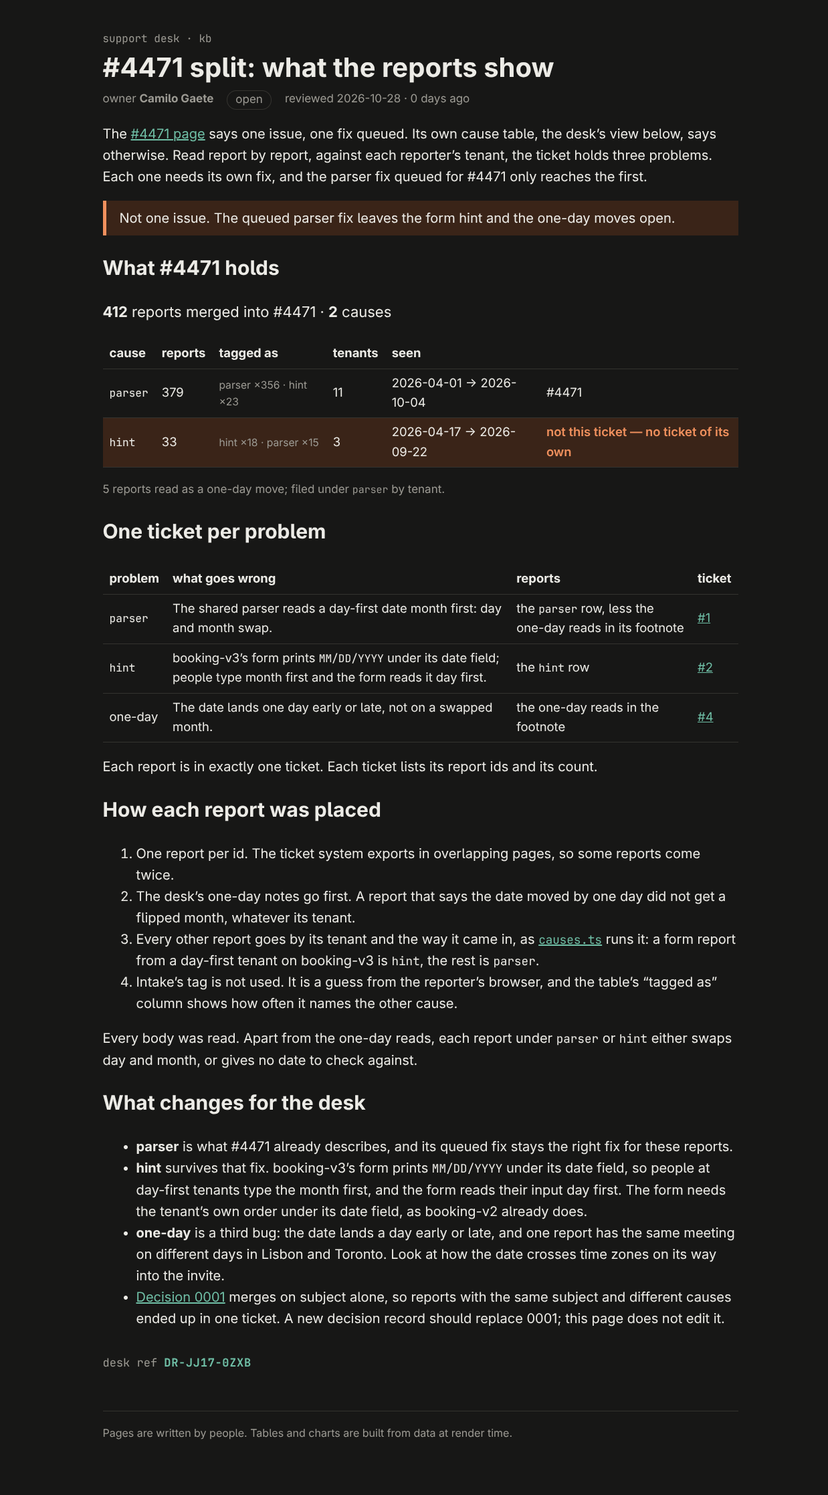
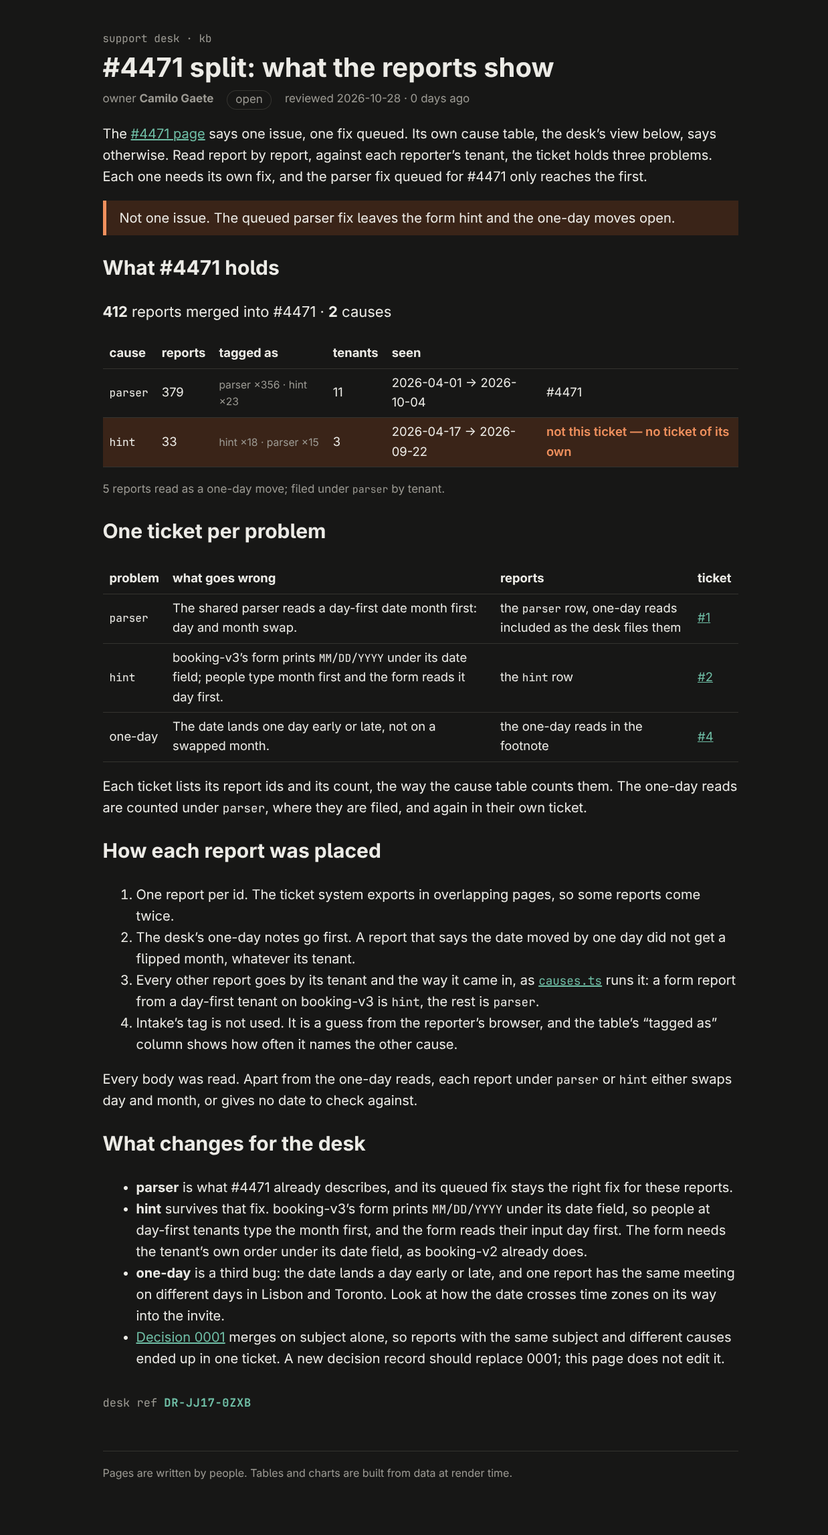
Count the parser ticket as the desk's cause table does
The one-day reads stay counted under parser, where they are filed, and
also have their own ticket.

diff --git a/rendered/kb/incidents/4471-split/index.html b/rendered/kb/incidents/4471-split/index.html
@@ -9,11 +9,11 @@
 		<link href="../../../_app/immutable/chunks/B2Ul7l_u.js" rel="modulepreload">
 		<link href="../../../_app/immutable/chunks/BCPXOG7W.js" rel="modulepreload">
 		<link href="../../../_app/immutable/chunks/Dh1V97Jm.js" rel="modulepreload">
-		<link href="../../../_app/immutable/entry/app.-UMv9_4d.js" rel="modulepreload">
+		<link href="../../../_app/immutable/entry/app.O2QAQYfS.js" rel="modulepreload">
 		<link href="../../../_app/immutable/nodes/0.BurGglGN.js" rel="modulepreload">
 		<link href="../../../_app/immutable/chunks/DK3Fl9T5.js" rel="modulepreload">
-		<link href="../../../_app/immutable/nodes/5.gIbLY4YY.js" rel="modulepreload">
-		<link href="../../../_app/immutable/chunks/Z0EprLl_.js" rel="modulepreload">
+		<link href="../../../_app/immutable/nodes/5.Iw05Quhu.js" rel="modulepreload">
+		<link href="../../../_app/immutable/chunks/D5iGddRQ.js" rel="modulepreload">
 		<link href="../../../_app/immutable/chunks/BTPwLomz.js" rel="modulepreload">
 		<link href="../../../_app/immutable/chunks/D_eX76ox.js" rel="modulepreload">
 		<link href="../../../_app/immutable/chunks/BIy4WKJS.js" rel="modulepreload">
@@ -27,7 +27,7 @@
     <div style="display: contents"><!--[--><!--[--><!--[0--><!--[--><!--[--><!--[-1--><!--[--><div class="kb svelte-e2jw2j"><header><a class="crumb svelte-e2jw2j" href="/kb">support desk · kb</a> <h1 class="svelte-e2jw2j">#4471 split: what the reports show</h1> <p class="meta svelte-e2jw2j"><span>owner <b>Camilo Gaete</b></span> <span class="status open svelte-e2jw2j">open</span> <span class="svelte-e2jw2j">reviewed 2026-10-28 · 0 days ago</span></p></header> <!--[-1--><!--]--> <main><p>The <a href="/kb/incidents/4471">#4471 page</a> says one issue, one fix queued. Its own cause table, the
 desk’s view below, says otherwise. Read report by report, against each reporter’s tenant, the
 ticket holds three problems. Each one needs its own fix, and the parser fix queued for #4471 only
-reaches the first.</p> <aside class="warn svelte-17bri61"><!---->Not one issue. The queued parser fix leaves the form hint and the one-day moves open.<!----></aside><!----> <h2>What #4471 holds</h2> <p class="sum svelte-12oyimm"><strong>412</strong> reports merged into #4471 · <strong>2</strong> causes</p> <table><thead><tr><th>cause</th><th>reports</th><th>tagged as</th><th>tenants</th><th>seen</th><th></th></tr></thead><tbody><!--[--><tr class="svelte-12oyimm"><td class="svelte-12oyimm"><code>parser</code></td><td class="svelte-12oyimm">379</td><td class="tags svelte-12oyimm">parser ×356 · hint ×23</td><td class="svelte-12oyimm">11</td><td class="svelte-12oyimm">2026-04-01 → 2026-10-04</td><td class="svelte-12oyimm">#4471</td></tr><tr class="svelte-12oyimm wrong"><td class="svelte-12oyimm"><code>hint</code></td><td class="svelte-12oyimm">33</td><td class="tags svelte-12oyimm">hint ×18 · parser ×15</td><td class="svelte-12oyimm">3</td><td class="svelte-12oyimm">2026-04-17 → 2026-09-22</td><td class="svelte-12oyimm">not this ticket — no ticket of its own</td></tr><!--]--></tbody></table> <!--[--><!--[0--><p class="note svelte-12oyimm">5 reports read as a one-day move; filed under <code>parser</code> by tenant.</p><!--]--><!--[-1--><!--]--><!--]--><!----> <h2>One ticket per problem</h2> <table><thead><tr><th>problem</th><th>what goes wrong</th><th>reports</th><th>ticket</th></tr></thead><tbody><tr><td><code>parser</code></td><td>The shared parser reads a day-first date month first: day and month swap.</td><td>the <code>parser</code> row, less the one-day reads in its footnote</td><td><a href="https://github.com/CamiloGaete/support-kb-4471/issues/1" rel="nofollow">#1</a></td></tr><tr><td><code>hint</code></td><td>booking-v3’s form prints <code>MM/DD/YYYY</code> under its date field; people type month first and the form reads it day first.</td><td>the <code>hint</code> row</td><td><a href="https://github.com/CamiloGaete/support-kb-4471/issues/2" rel="nofollow">#2</a></td></tr><tr><td>one-day</td><td>The date lands one day early or late, not on a swapped month.</td><td>the one-day reads in the footnote</td><td><a href="https://github.com/CamiloGaete/support-kb-4471/issues/4" rel="nofollow">#4</a></td></tr></tbody></table> <p>Each report is in exactly one ticket. Each ticket lists its report ids and its count.</p> <h2>How each report was placed</h2> <ol><li>One report per id. The ticket system exports in overlapping pages, so some reports come twice.</li> <li>The desk’s one-day notes go first. A report that says the date moved by one day did not get a
+reaches the first.</p> <aside class="warn svelte-17bri61"><!---->Not one issue. The queued parser fix leaves the form hint and the one-day moves open.<!----></aside><!----> <h2>What #4471 holds</h2> <p class="sum svelte-12oyimm"><strong>412</strong> reports merged into #4471 · <strong>2</strong> causes</p> <table><thead><tr><th>cause</th><th>reports</th><th>tagged as</th><th>tenants</th><th>seen</th><th></th></tr></thead><tbody><!--[--><tr class="svelte-12oyimm"><td class="svelte-12oyimm"><code>parser</code></td><td class="svelte-12oyimm">379</td><td class="tags svelte-12oyimm">parser ×356 · hint ×23</td><td class="svelte-12oyimm">11</td><td class="svelte-12oyimm">2026-04-01 → 2026-10-04</td><td class="svelte-12oyimm">#4471</td></tr><tr class="svelte-12oyimm wrong"><td class="svelte-12oyimm"><code>hint</code></td><td class="svelte-12oyimm">33</td><td class="tags svelte-12oyimm">hint ×18 · parser ×15</td><td class="svelte-12oyimm">3</td><td class="svelte-12oyimm">2026-04-17 → 2026-09-22</td><td class="svelte-12oyimm">not this ticket — no ticket of its own</td></tr><!--]--></tbody></table> <!--[--><!--[0--><p class="note svelte-12oyimm">5 reports read as a one-day move; filed under <code>parser</code> by tenant.</p><!--]--><!--[-1--><!--]--><!--]--><!----> <h2>One ticket per problem</h2> <table><thead><tr><th>problem</th><th>what goes wrong</th><th>reports</th><th>ticket</th></tr></thead><tbody><tr><td><code>parser</code></td><td>The shared parser reads a day-first date month first: day and month swap.</td><td>the <code>parser</code> row, one-day reads included as the desk files them</td><td><a href="https://github.com/CamiloGaete/support-kb-4471/issues/1" rel="nofollow">#1</a></td></tr><tr><td><code>hint</code></td><td>booking-v3’s form prints <code>MM/DD/YYYY</code> under its date field; people type month first and the form reads it day first.</td><td>the <code>hint</code> row</td><td><a href="https://github.com/CamiloGaete/support-kb-4471/issues/2" rel="nofollow">#2</a></td></tr><tr><td>one-day</td><td>The date lands one day early or late, not on a swapped month.</td><td>the one-day reads in the footnote</td><td><a href="https://github.com/CamiloGaete/support-kb-4471/issues/4" rel="nofollow">#4</a></td></tr></tbody></table> <p>Each ticket lists its report ids and its count, the way the cause table counts them. The one-day reads are counted under <code>parser</code>, where they are filed, and again in their own ticket.</p> <h2>How each report was placed</h2> <ol><li>One report per id. The ticket system exports in overlapping pages, so some reports come twice.</li> <li>The desk’s one-day notes go first. A report that says the date moved by one day did not get a
 flipped month, whatever its tenant.</li> <li>Every other report goes by its tenant and the way it came in, as <a href="https://github.com/CamiloGaete/support-kb-4471/blob/main/src/lib/kb/causes.ts" rel="nofollow"><code>causes.ts</code></a> runs it: a form report from a day-first tenant on booking-v3 is <code>hint</code>, the rest is <code>parser</code>.</li> <li>Intake’s tag is not used. It is a guess from the reporter’s browser, and the table’s “tagged
 as” column shows how often it names the other cause.</li></ol> <p>Every body was read. Apart from the one-day reads, each report under <code>parser</code> or <code>hint</code> either
 swaps day and month, or gives no date to check against.</p> <h2>What changes for the desk</h2> <ul><li><strong>parser</strong> is what #4471 already describes, and its queued fix stays the right fix for these
@@ -41,16 +41,16 @@ replace 0001; this page does not edit it.</li></ul> <!--[0--><p class="stamp sve
 			
 			<script>
 				{
-					__sveltekit_1hvcwjf = {
+					__sveltekit_1nj6229 = {
 						base: new URL("../../..", location).pathname.slice(0, -1),
-						version: "1793219587424"
+						version: "1793219828761"
 					};
 
 					const element = document.currentScript.parentElement;
 
 					import("../../../_app/immutable/entry/start.CH5w6lId.js").then(async (kit) => {
-						kit.init(__sveltekit_1hvcwjf);
-						const app = await import("../../../_app/immutable/entry/app.-UMv9_4d.js");
+						kit.init(__sveltekit_1nj6229);
+						const app = await import("../../../_app/immutable/entry/app.O2QAQYfS.js");
 						kit.start(app, element, {
 							node_ids: [0, 5],
 							data: [null,null],

diff --git a/rendered/_app/immutable/chunks/D5iGddRQ.js b/rendered/_app/immutable/chunks/D5iGddRQ.js
@@ -1,7 +1,7 @@
 import{t as e}from"./DK3Fl9T5.js";import{E as t,F as n,H as r,I as i,K as a,L as o,N as s,O as c,R as l,S as u,T as d,U as f,W as p,_ as m,k as h,q as g,r as _,t as v,w as y}from"./BCPXOG7W.js";import{t as b}from"./BTPwLomz.js";import{t as x}from"./D_eX76ox.js";import{t as S}from"./BIy4WKJS.js";var C=`0123456789ABCDEFGHJKMNPQRSTVWXYZ`;function w(e,t){let n=t>>>0;for(let t=0;t<e.length;t++)n^=e.charCodeAt(t),n=Math.imul(n,16777619)>>>0;return n}function T(e){let t=e.trim(),n=w(t,2166136261),r=w(t,2654435769),i=BigInt(n)<<8n|BigInt(r&255),a=``;for(let e=0;e<8;e++)a=C[Number(i&31n)]+a,i>>=5n;return`DR-${a.slice(0,4)}-${a.slice(4)}`}var E=t(`<p class="stamp svelte-1280m42">desk ref <b class="svelte-1280m42"> </b></p>`),D=t(`<p class="stamp missing svelte-1280m42">no desk ref: this page isn't signed (no <code>signature</code> in its frontmatter)</p>`);function O(e,t){p(t,!0);let a=r(()=>t.signature?T(t.signature):null);var c=d(),_=i(c),v=e=>{var t=E(),r=l(n(t)),i=o(r,!0);g(t),s(()=>u(i,h(a))),y(e,t)},b=e=>{var t=D();y(e,t)};m(_,e=>{h(a)?e(v):e(b,-1)}),y(e,c),f()}var k=e({default:()=>R,metadata:()=>A}),A={layout:`runbook`,title:`#4471 split: what the reports show`,owner:`Camilo Gaete`,status:`open`,reviewed:`2026-10-28T00:00:00.000Z`,signature:`v1.eyJzdWIiOiIzMDIiLCJhdWQiOiJjaGFsbGVuZ2U6d2hhdC1pdC1zaG93cyIsImlhdCI6MTc5MzIxODI1NywiZXhwIjoxNzkzMzA0NjU3fQ.ib5O7nSz4A4s80pjVwiKF3khW6C-5l8RFRv_YjpKHjs`},{layout:j,title:M,owner:N,status:P,reviewed:F,signature:I}=A,L=t(`<p>The <a href="/kb/incidents/4471">#4471 page</a> says one issue, one fix queued. Its own cause table, the
 desk’s view below, says otherwise. Read report by report, against each reporter’s tenant, the
 ticket holds three problems. Each one needs its own fix, and the parser fix queued for #4471 only
-reaches the first.</p> <!> <h2>What #4471 holds</h2> <!> <h2>One ticket per problem</h2> <table><thead><tr><th>problem</th><th>what goes wrong</th><th>reports</th><th>ticket</th></tr></thead><tbody><tr><td><code>parser</code></td><td>The shared parser reads a day-first date month first: day and month swap.</td><td>the <code>parser</code> row, less the one-day reads in its footnote</td><td><a href="https://github.com/CamiloGaete/support-kb-4471/issues/1" rel="nofollow">#1</a></td></tr><tr><td><code>hint</code></td><td>booking-v3’s form prints <code>MM/DD/YYYY</code> under its date field; people type month first and the form reads it day first.</td><td>the <code>hint</code> row</td><td><a href="https://github.com/CamiloGaete/support-kb-4471/issues/2" rel="nofollow">#2</a></td></tr><tr><td>one-day</td><td>The date lands one day early or late, not on a swapped month.</td><td>the one-day reads in the footnote</td><td><a href="https://github.com/CamiloGaete/support-kb-4471/issues/4" rel="nofollow">#4</a></td></tr></tbody></table> <p>Each report is in exactly one ticket. Each ticket lists its report ids and its count.</p> <h2>How each report was placed</h2> <ol><li>One report per id. The ticket system exports in overlapping pages, so some reports come twice.</li> <li>The desk’s one-day notes go first. A report that says the date moved by one day did not get a
+reaches the first.</p> <!> <h2>What #4471 holds</h2> <!> <h2>One ticket per problem</h2> <table><thead><tr><th>problem</th><th>what goes wrong</th><th>reports</th><th>ticket</th></tr></thead><tbody><tr><td><code>parser</code></td><td>The shared parser reads a day-first date month first: day and month swap.</td><td>the <code>parser</code> row, one-day reads included as the desk files them</td><td><a href="https://github.com/CamiloGaete/support-kb-4471/issues/1" rel="nofollow">#1</a></td></tr><tr><td><code>hint</code></td><td>booking-v3’s form prints <code>MM/DD/YYYY</code> under its date field; people type month first and the form reads it day first.</td><td>the <code>hint</code> row</td><td><a href="https://github.com/CamiloGaete/support-kb-4471/issues/2" rel="nofollow">#2</a></td></tr><tr><td>one-day</td><td>The date lands one day early or late, not on a swapped month.</td><td>the one-day reads in the footnote</td><td><a href="https://github.com/CamiloGaete/support-kb-4471/issues/4" rel="nofollow">#4</a></td></tr></tbody></table> <p>Each ticket lists its report ids and its count, the way the cause table counts them. The one-day reads are counted under <code>parser</code>, where they are filed, and again in their own ticket.</p> <h2>How each report was placed</h2> <ol><li>One report per id. The ticket system exports in overlapping pages, so some reports come twice.</li> <li>The desk’s one-day notes go first. A report that says the date moved by one day did not get a
 flipped month, whatever its tenant.</li> <li>Every other report goes by its tenant and the way it came in, as <a href="https://github.com/CamiloGaete/support-kb-4471/blob/main/src/lib/kb/causes.ts" rel="nofollow"><code>causes.ts</code></a> runs it: a form report from a day-first tenant on booking-v3 is <code>hint</code>, the rest is <code>parser</code>.</li> <li>Intake’s tag is not used. It is a guess from the reporter’s browser, and the table’s “tagged
 as” column shows how often it names the other cause.</li></ol> <p>Every body was read. Apart from the one-day reads, each report under <code>parser</code> or <code>hint</code> either
 swaps day and month, or gives no date to check against.</p> <h2>What changes for the desk</h2> <ul><li><strong>parser</strong> is what #4471 already describes, and its queued fix stays the right fix for these

diff --git a/rendered/_app/immutable/nodes/2.UM0H0nbS.js b/rendered/_app/immutable/nodes/2.UM0H0nbS.js
@@ -1,0 +1,2 @@
+import{E as e,F as t,I as n,K as r,L as i,N as a,R as o,S as s,U as c,W as l,c as u,d,h as f,i as p,k as m,q as h,r as g,t as _,w as v}from"../chunks/BCPXOG7W.js";import{n as y,r as b,t as x}from"../chunks/BTPwLomz.js";import{t as S}from"../chunks/YX22L_Ud.js";import{t as C}from"../chunks/C7NBqcQG.js";import{t as w}from"../chunks/D5iGddRQ.js";import{t as T}from"../chunks/BGqJVSDw.js";var E=e(`<tr><td><a> </a></td><td> </td><td> </td><td> </td></tr>`),D=e(`<table><thead><tr><th>page</th><th>owner</th><th>status</th><th>reviewed</th></tr></thead><tbody></tbody></table>`);function O(e,n){l(n,!1);let r=Object.entries(Object.assign({"/src/routes/kb/decisions/0001-dedupe-by-subject/+page.svx":S,"/src/routes/kb/incidents/4471/+page.svx":C,"/src/routes/kb/incidents/4471-split/+page.svx":w,"/src/routes/kb/triage/dedupe/+page.svx":T})).map(([e,t])=>({href:e.replace(`/src/routes`,``).replace(`/+page.svx`,``),...t.metadata})).sort((e,t)=>e.href.localeCompare(t.href));p();var g=D(),_=o(t(g));f(_,5,()=>r,e=>e.href,(e,n)=>{var r=E(),c=t(r),l=t(c),f=i(l,!0);h(c);var p=o(c),g=i(p,!0),_=o(p),x=i(_,!0),S=o(_);let C;var w=i(S,!0);h(r),a((e,t)=>{u(l,`href`,m(n).href),s(f,m(n).title),s(g,m(n).owner),s(x,m(n).status),C=d(S,1,`svelte-tbc1ha`,null,C,{stale:e}),s(w,t)},[()=>y(m(n).reviewed)>180,()=>b(m(n).reviewed)]),v(e,r)}),h(_),h(g),v(e,g),c()}var k={layout:`runbook`,title:`Support knowledge base`,owner:`support desk`,status:`living`,reviewed:`2026-09-28T00:00:00.000Z`},{layout:A,title:j,owner:M,status:N,reviewed:P}=k,F=e(`<p>What the support desk knows, kept next to the code that knows it. One desk, every product: <code>sched-prod</code> (calendar invites for about 300k people) and the rest. When something breaks, the reports land here first.</p> <p>Start with <a href="/kb/triage/dedupe">triage</a> if you are new on the desk.</p> <h2>Pages</h2> <!> <h2>Writing a page</h2> <p>Keep the words here and the logic in <code>src/lib</code>. A number that can be computed should be
+computed by a component, not typed into a paragraph.</p>`,1);function I(e,t){let i=_(t,[`children`,`$$slots`,`$$events`,`$$legacy`]);x(e,g(()=>i,()=>k,{children:(e,t)=>{var i=F();O(o(n(i),6),{}),r(4),v(e,i)},$$slots:{default:!0}}))}export{I as component};

diff --git a/rendered/kb/index.html b/rendered/kb/index.html
@@ -9,16 +9,16 @@
 		<link href="../_app/immutable/chunks/B2Ul7l_u.js" rel="modulepreload">
 		<link href="../_app/immutable/chunks/BCPXOG7W.js" rel="modulepreload">
 		<link href="../_app/immutable/chunks/Dh1V97Jm.js" rel="modulepreload">
-		<link href="../_app/immutable/entry/app.-UMv9_4d.js" rel="modulepreload">
+		<link href="../_app/immutable/entry/app.O2QAQYfS.js" rel="modulepreload">
 		<link href="../_app/immutable/nodes/0.BurGglGN.js" rel="modulepreload">
 		<link href="../_app/immutable/chunks/DK3Fl9T5.js" rel="modulepreload">
-		<link href="../_app/immutable/nodes/2.BH4nGlDw.js" rel="modulepreload">
+		<link href="../_app/immutable/nodes/2.UM0H0nbS.js" rel="modulepreload">
 		<link href="../_app/immutable/chunks/BTPwLomz.js" rel="modulepreload">
 		<link href="../_app/immutable/chunks/YX22L_Ud.js" rel="modulepreload">
 		<link href="../_app/immutable/chunks/C7NBqcQG.js" rel="modulepreload">
 		<link href="../_app/immutable/chunks/D_eX76ox.js" rel="modulepreload">
 		<link href="../_app/immutable/chunks/BIy4WKJS.js" rel="modulepreload">
-		<link href="../_app/immutable/chunks/Z0EprLl_.js" rel="modulepreload">
+		<link href="../_app/immutable/chunks/D5iGddRQ.js" rel="modulepreload">
 		<link href="../_app/immutable/chunks/BGqJVSDw.js" rel="modulepreload">
 		<!--e2jw2j--><!----><title>Support knowledge base · support kb</title>
 		<link href="../_app/immutable/assets/runbook.COyw0cbZ.css" rel="stylesheet">
@@ -35,16 +35,16 @@ computed by a component, not typed into a paragraph.</p><!----></main> <footer c
 			
 			<script>
 				{
-					__sveltekit_1hvcwjf = {
+					__sveltekit_1nj6229 = {
 						base: new URL("..", location).pathname.slice(0, -1),
-						version: "1793219587424"
+						version: "1793219828761"
 					};
 
 					const element = document.currentScript.parentElement;
 
 					import("../_app/immutable/entry/start.CH5w6lId.js").then(async (kit) => {
-						kit.init(__sveltekit_1hvcwjf);
-						const app = await import("../_app/immutable/entry/app.-UMv9_4d.js");
+						kit.init(__sveltekit_1nj6229);
+						const app = await import("../_app/immutable/entry/app.O2QAQYfS.js");
 						kit.start(app, element, {
 							node_ids: [0, 2],
 							data: [null,null],

diff --git a/rendered/_app/immutable/entry/app.O2QAQYfS.js b/rendered/_app/immutable/entry/app.O2QAQYfS.js
@@ -1,0 +1,2 @@
+const __vite__mapDeps=(i,m=__vite__mapDeps,d=(m.f||(m.f=["../nodes/0.BurGglGN.js","../chunks/DK3Fl9T5.js","../chunks/BCPXOG7W.js","../nodes/1.mOwa9YdW.js","../chunks/Dh1V97Jm.js","./payload.DSmR2FwN.js","../nodes/2.UM0H0nbS.js","../chunks/BTPwLomz.js","../assets/runbook.COyw0cbZ.css","../chunks/YX22L_Ud.js","../chunks/C7NBqcQG.js","../chunks/D_eX76ox.js","../chunks/BIy4WKJS.js","../assets/Callout.AbLv9dM_.css","../assets/CauseTable.DuKfINX_.css","../assets/_page.BwRNheVv.css","../chunks/D5iGddRQ.js","../assets/_page.WePi3wDe.css","../chunks/BGqJVSDw.js","../assets/_page.DO6Yid7X.css","../assets/2.Bt0MwIZg.css","../nodes/3.DRxPfvn3.js","../nodes/4.r04HXAAh.js","../nodes/5.Iw05Quhu.js","../nodes/6.sFtxrtyV.js"])))=>i.map(i=>d[i]);
+import{t as e}from"../chunks/CRzLMJPS.js";var t={},n=[()=>e(()=>import(`../nodes/0.BurGglGN.js`),__vite__mapDeps([0,1,2]),import.meta.url),()=>e(()=>import(`../nodes/1.mOwa9YdW.js`),__vite__mapDeps([3,2,4,5]),import.meta.url),()=>e(()=>import(`../nodes/2.UM0H0nbS.js`),__vite__mapDeps([6,2,7,8,9,1,10,11,12,13,14,15,16,17,18,19,20]),import.meta.url),()=>e(()=>import(`../nodes/3.DRxPfvn3.js`),__vite__mapDeps([21,9,1,2,7,8]),import.meta.url),()=>e(()=>import(`../nodes/4.r04HXAAh.js`),__vite__mapDeps([22,10,1,2,7,8,11,12,13,14,15]),import.meta.url),()=>e(()=>import(`../nodes/5.Iw05Quhu.js`),__vite__mapDeps([23,16,1,2,7,8,11,12,13,14,17]),import.meta.url),()=>e(()=>import(`../nodes/6.sFtxrtyV.js`),__vite__mapDeps([24,18,1,2,7,8,12,13,19]),import.meta.url)],r=[],i={"/kb":[2],"/kb/decisions/0001-dedupe-by-subject":[3],"/kb/incidents/4471-split":[5],"/kb/incidents/4471":[4],"/kb/triage/dedupe":[6]},a={handleError:(({kind:e,error:t})=>{e===`unknown`&&console.error(t)}),reroute:(()=>{}),transport:{}},o=Object.fromEntries(Object.entries(a.transport).map(([e,t])=>[e,t.decode])),s=Object.fromEntries(Object.entries(a.transport).map(([e,t])=>[e,t.encode])),c=!1,l=(e,t)=>o[e](t),u=()=>e(()=>import(`../chunks/Bjy-W4x2.js`).then(e=>e.default),[],import.meta.url);export{l as decode,o as decoders,i as dictionary,s as encoders,u as get_error_template,c as hash,a as hooks,t as matchers,n as nodes,r as server_loads};

diff --git a/rendered/kb/decisions/0001-dedupe-by-subject/index.html b/rendered/kb/decisions/0001-dedupe-by-subject/index.html
@@ -9,7 +9,7 @@
 		<link href="../../../_app/immutable/chunks/B2Ul7l_u.js" rel="modulepreload">
 		<link href="../../../_app/immutable/chunks/BCPXOG7W.js" rel="modulepreload">
 		<link href="../../../_app/immutable/chunks/Dh1V97Jm.js" rel="modulepreload">
-		<link href="../../../_app/immutable/entry/app.-UMv9_4d.js" rel="modulepreload">
+		<link href="../../../_app/immutable/entry/app.O2QAQYfS.js" rel="modulepreload">
 		<link href="../../../_app/immutable/nodes/0.BurGglGN.js" rel="modulepreload">
 		<link href="../../../_app/immutable/chunks/DK3Fl9T5.js" rel="modulepreload">
 		<link href="../../../_app/immutable/nodes/3.DRxPfvn3.js" rel="modulepreload">
@@ -26,16 +26,16 @@ engineering merges them later.</li></ul><!----></main> <footer class="svelte-e2j
 			
 			<script>
 				{
-					__sveltekit_1hvcwjf = {
+					__sveltekit_1nj6229 = {
 						base: new URL("../../..", location).pathname.slice(0, -1),
-						version: "1793219587424"
+						version: "1793219828761"
 					};
 
 					const element = document.currentScript.parentElement;
 
 					import("../../../_app/immutable/entry/start.CH5w6lId.js").then(async (kit) => {
-						kit.init(__sveltekit_1hvcwjf);
-						const app = await import("../../../_app/immutable/entry/app.-UMv9_4d.js");
+						kit.init(__sveltekit_1nj6229);
+						const app = await import("../../../_app/immutable/entry/app.O2QAQYfS.js");
 						kit.start(app, element, {
 							node_ids: [0, 3],
 							data: [null,null],

diff --git a/rendered/kb/incidents/4471/index.html b/rendered/kb/incidents/4471/index.html
@@ -9,7 +9,7 @@
 		<link href="../../../_app/immutable/chunks/B2Ul7l_u.js" rel="modulepreload">
 		<link href="../../../_app/immutable/chunks/BCPXOG7W.js" rel="modulepreload">
 		<link href="../../../_app/immutable/chunks/Dh1V97Jm.js" rel="modulepreload">
-		<link href="../../../_app/immutable/entry/app.-UMv9_4d.js" rel="modulepreload">
+		<link href="../../../_app/immutable/entry/app.O2QAQYfS.js" rel="modulepreload">
 		<link href="../../../_app/immutable/nodes/0.BurGglGN.js" rel="modulepreload">
 		<link href="../../../_app/immutable/chunks/DK3Fl9T5.js" rel="modulepreload">
 		<link href="../../../_app/immutable/nodes/4.r04HXAAh.js" rel="modulepreload">
@@ -30,16 +30,16 @@ first. The fix is queued.</p> <aside class="note svelte-17bri61"><!---->Known. O
 			
 			<script>
 				{
-					__sveltekit_1hvcwjf = {
+					__sveltekit_1nj6229 = {
 						base: new URL("../../..", location).pathname.slice(0, -1),
-						version: "1793219587424"
+						version: "1793219828761"
 					};
 
 					const element = document.currentScript.parentElement;
 
 					import("../../../_app/immutable/entry/start.CH5w6lId.js").then(async (kit) => {
-						kit.init(__sveltekit_1hvcwjf);
-						const app = await import("../../../_app/immutable/entry/app.-UMv9_4d.js");
+						kit.init(__sveltekit_1nj6229);
+						const app = await import("../../../_app/immutable/entry/app.O2QAQYfS.js");
 						kit.start(app, element, {
 							node_ids: [0, 4],
 							data: [null,null],

diff --git a/rendered/kb/triage/dedupe/index.html b/rendered/kb/triage/dedupe/index.html
@@ -9,7 +9,7 @@
 		<link href="../../../_app/immutable/chunks/B2Ul7l_u.js" rel="modulepreload">
 		<link href="../../../_app/immutable/chunks/BCPXOG7W.js" rel="modulepreload">
 		<link href="../../../_app/immutable/chunks/Dh1V97Jm.js" rel="modulepreload">
-		<link href="../../../_app/immutable/entry/app.-UMv9_4d.js" rel="modulepreload">
+		<link href="../../../_app/immutable/entry/app.O2QAQYfS.js" rel="modulepreload">
 		<link href="../../../_app/immutable/nodes/0.BurGglGN.js" rel="modulepreload">
 		<link href="../../../_app/immutable/chunks/DK3Fl9T5.js" rel="modulepreload">
 		<link href="../../../_app/immutable/nodes/6.sFtxrtyV.js" rel="modulepreload">
@@ -29,16 +29,16 @@ anything else.<!----></aside><!----> <h2>Try it</h2> <div class="try svelte-gq0h
 			
 			<script>
 				{
-					__sveltekit_1hvcwjf = {
+					__sveltekit_1nj6229 = {
 						base: new URL("../../..", location).pathname.slice(0, -1),
-						version: "1793219587424"
+						version: "1793219828761"
 					};
 
 					const element = document.currentScript.parentElement;
 
 					import("../../../_app/immutable/entry/start.CH5w6lId.js").then(async (kit) => {
-						kit.init(__sveltekit_1hvcwjf);
-						const app = await import("../../../_app/immutable/entry/app.-UMv9_4d.js");
+						kit.init(__sveltekit_1nj6229);
+						const app = await import("../../../_app/immutable/entry/app.O2QAQYfS.js");
 						kit.start(app, element, {
 							node_ids: [0, 6],
 							data: [null,null],

diff --git a/rendered/_app/immutable/nodes/5.Iw05Quhu.js b/rendered/_app/immutable/nodes/5.Iw05Quhu.js
@@ -1,0 +1,1 @@
+export{n as component}from"../chunks/D5iGddRQ.js";
